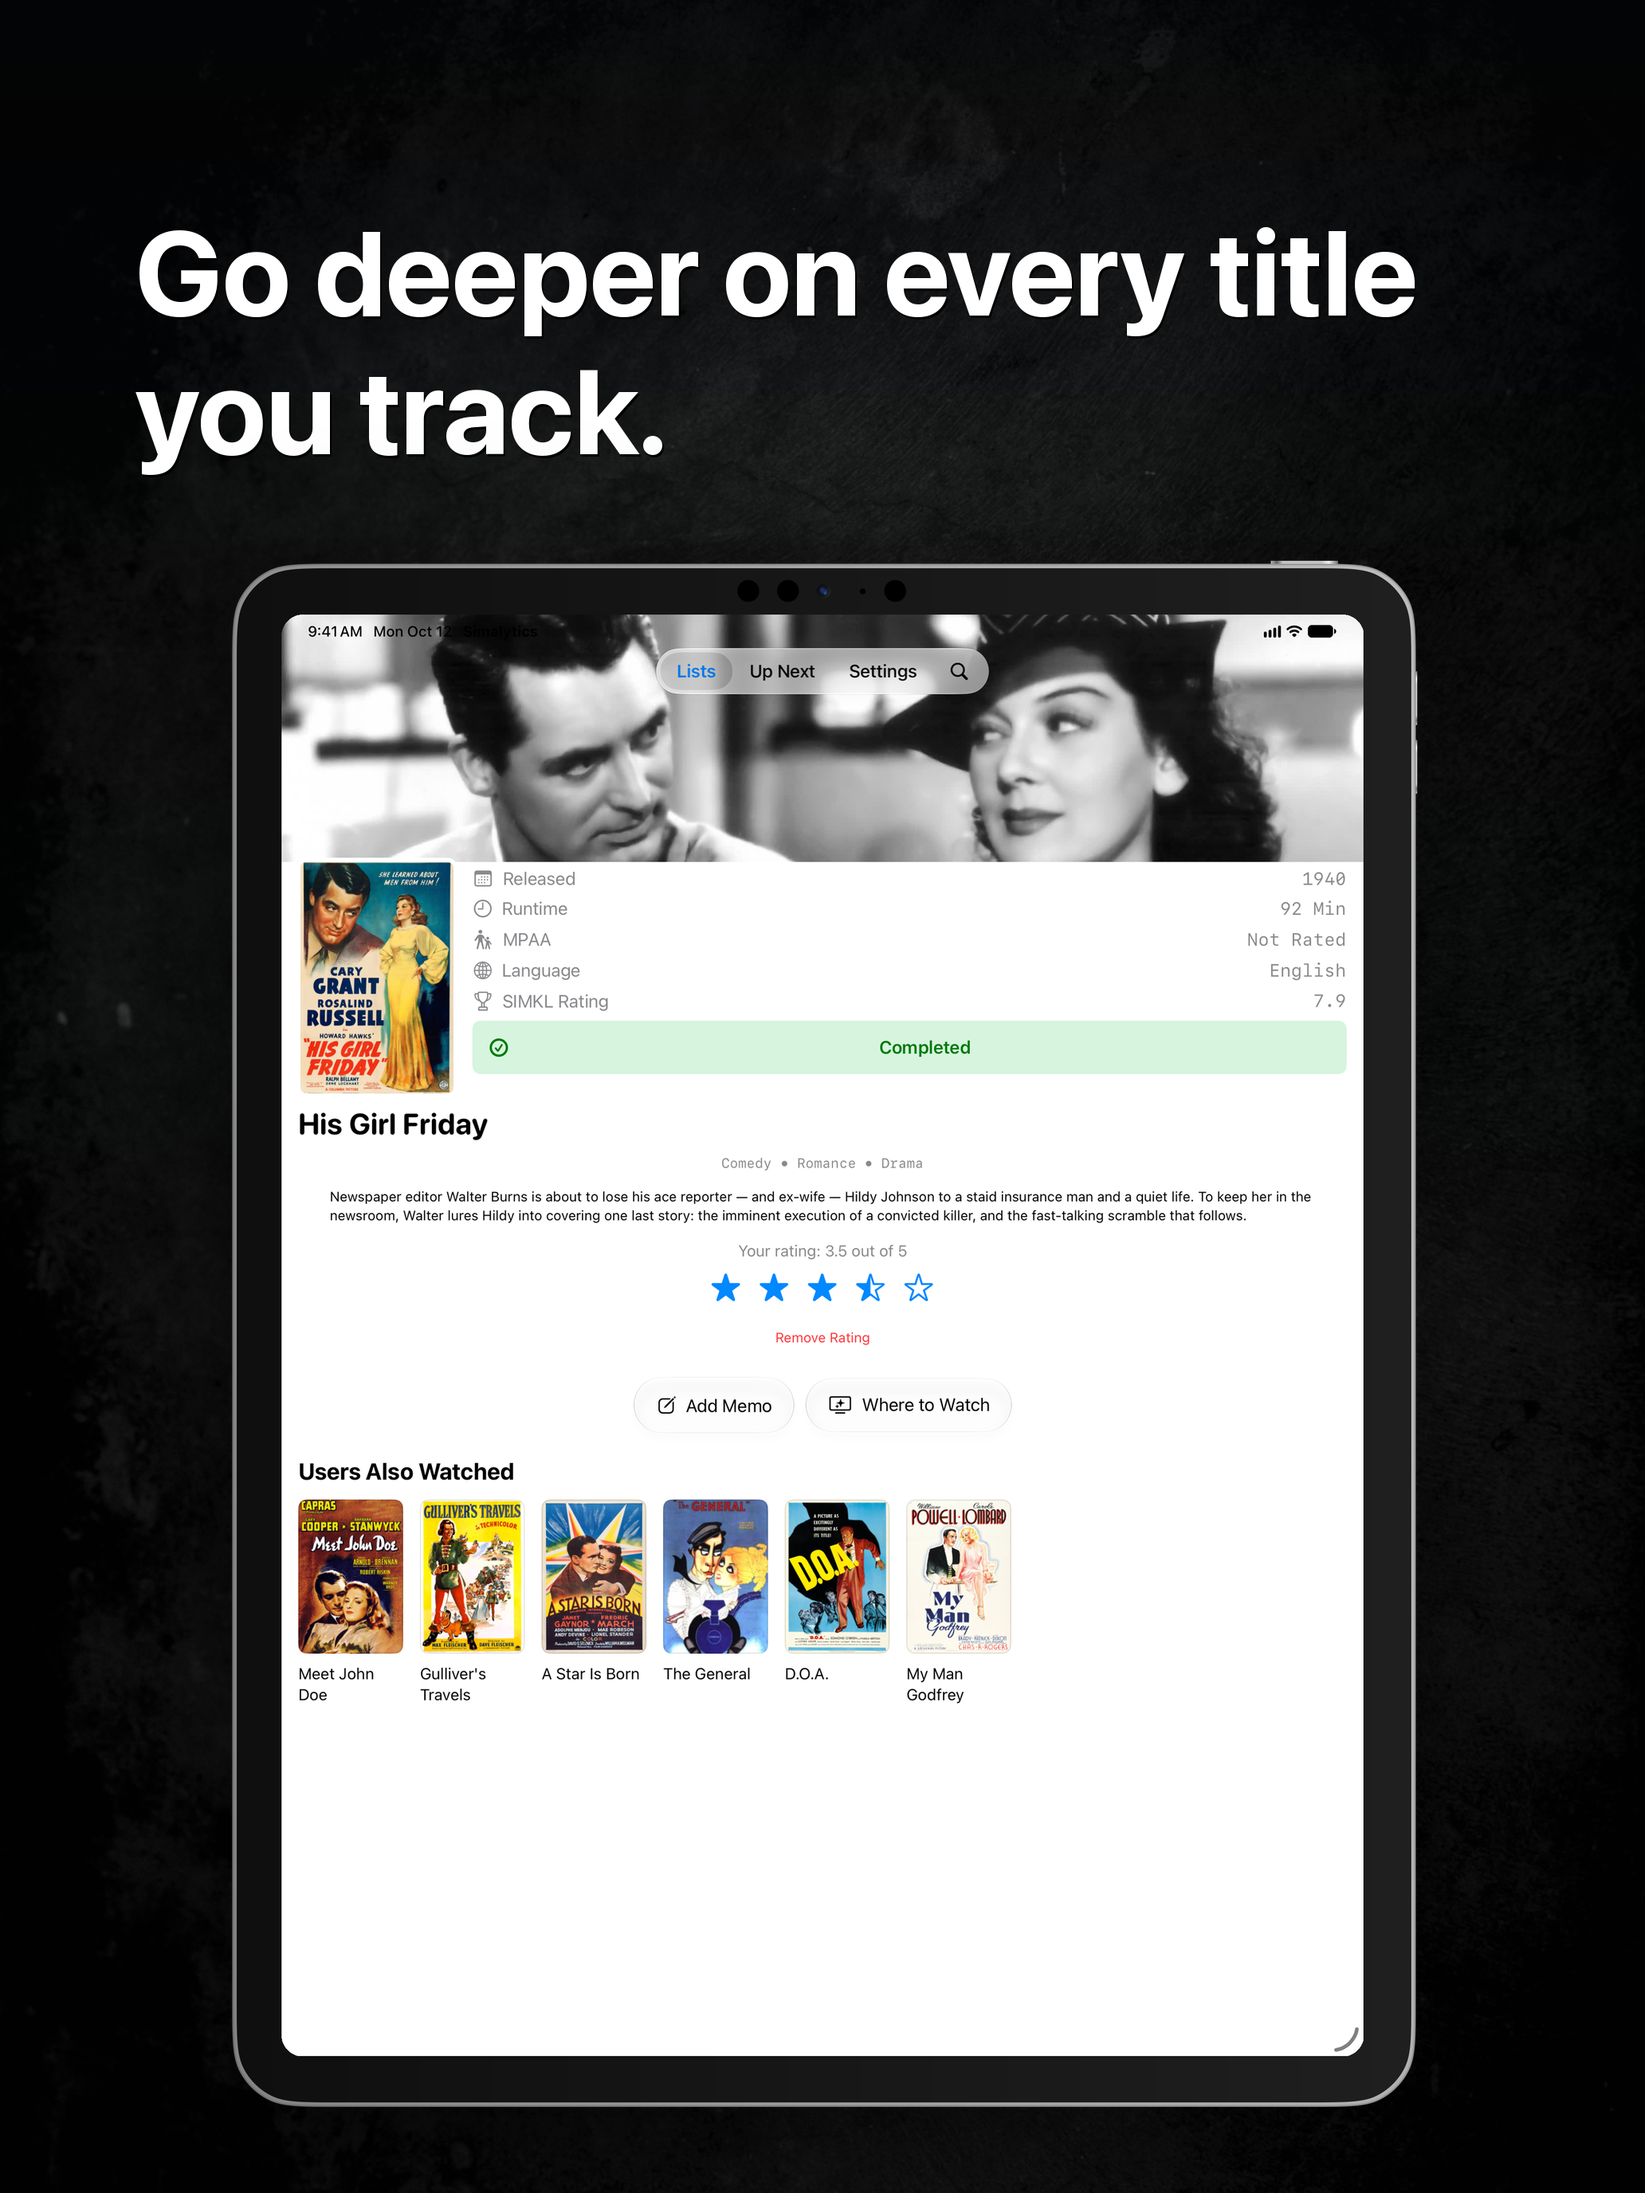
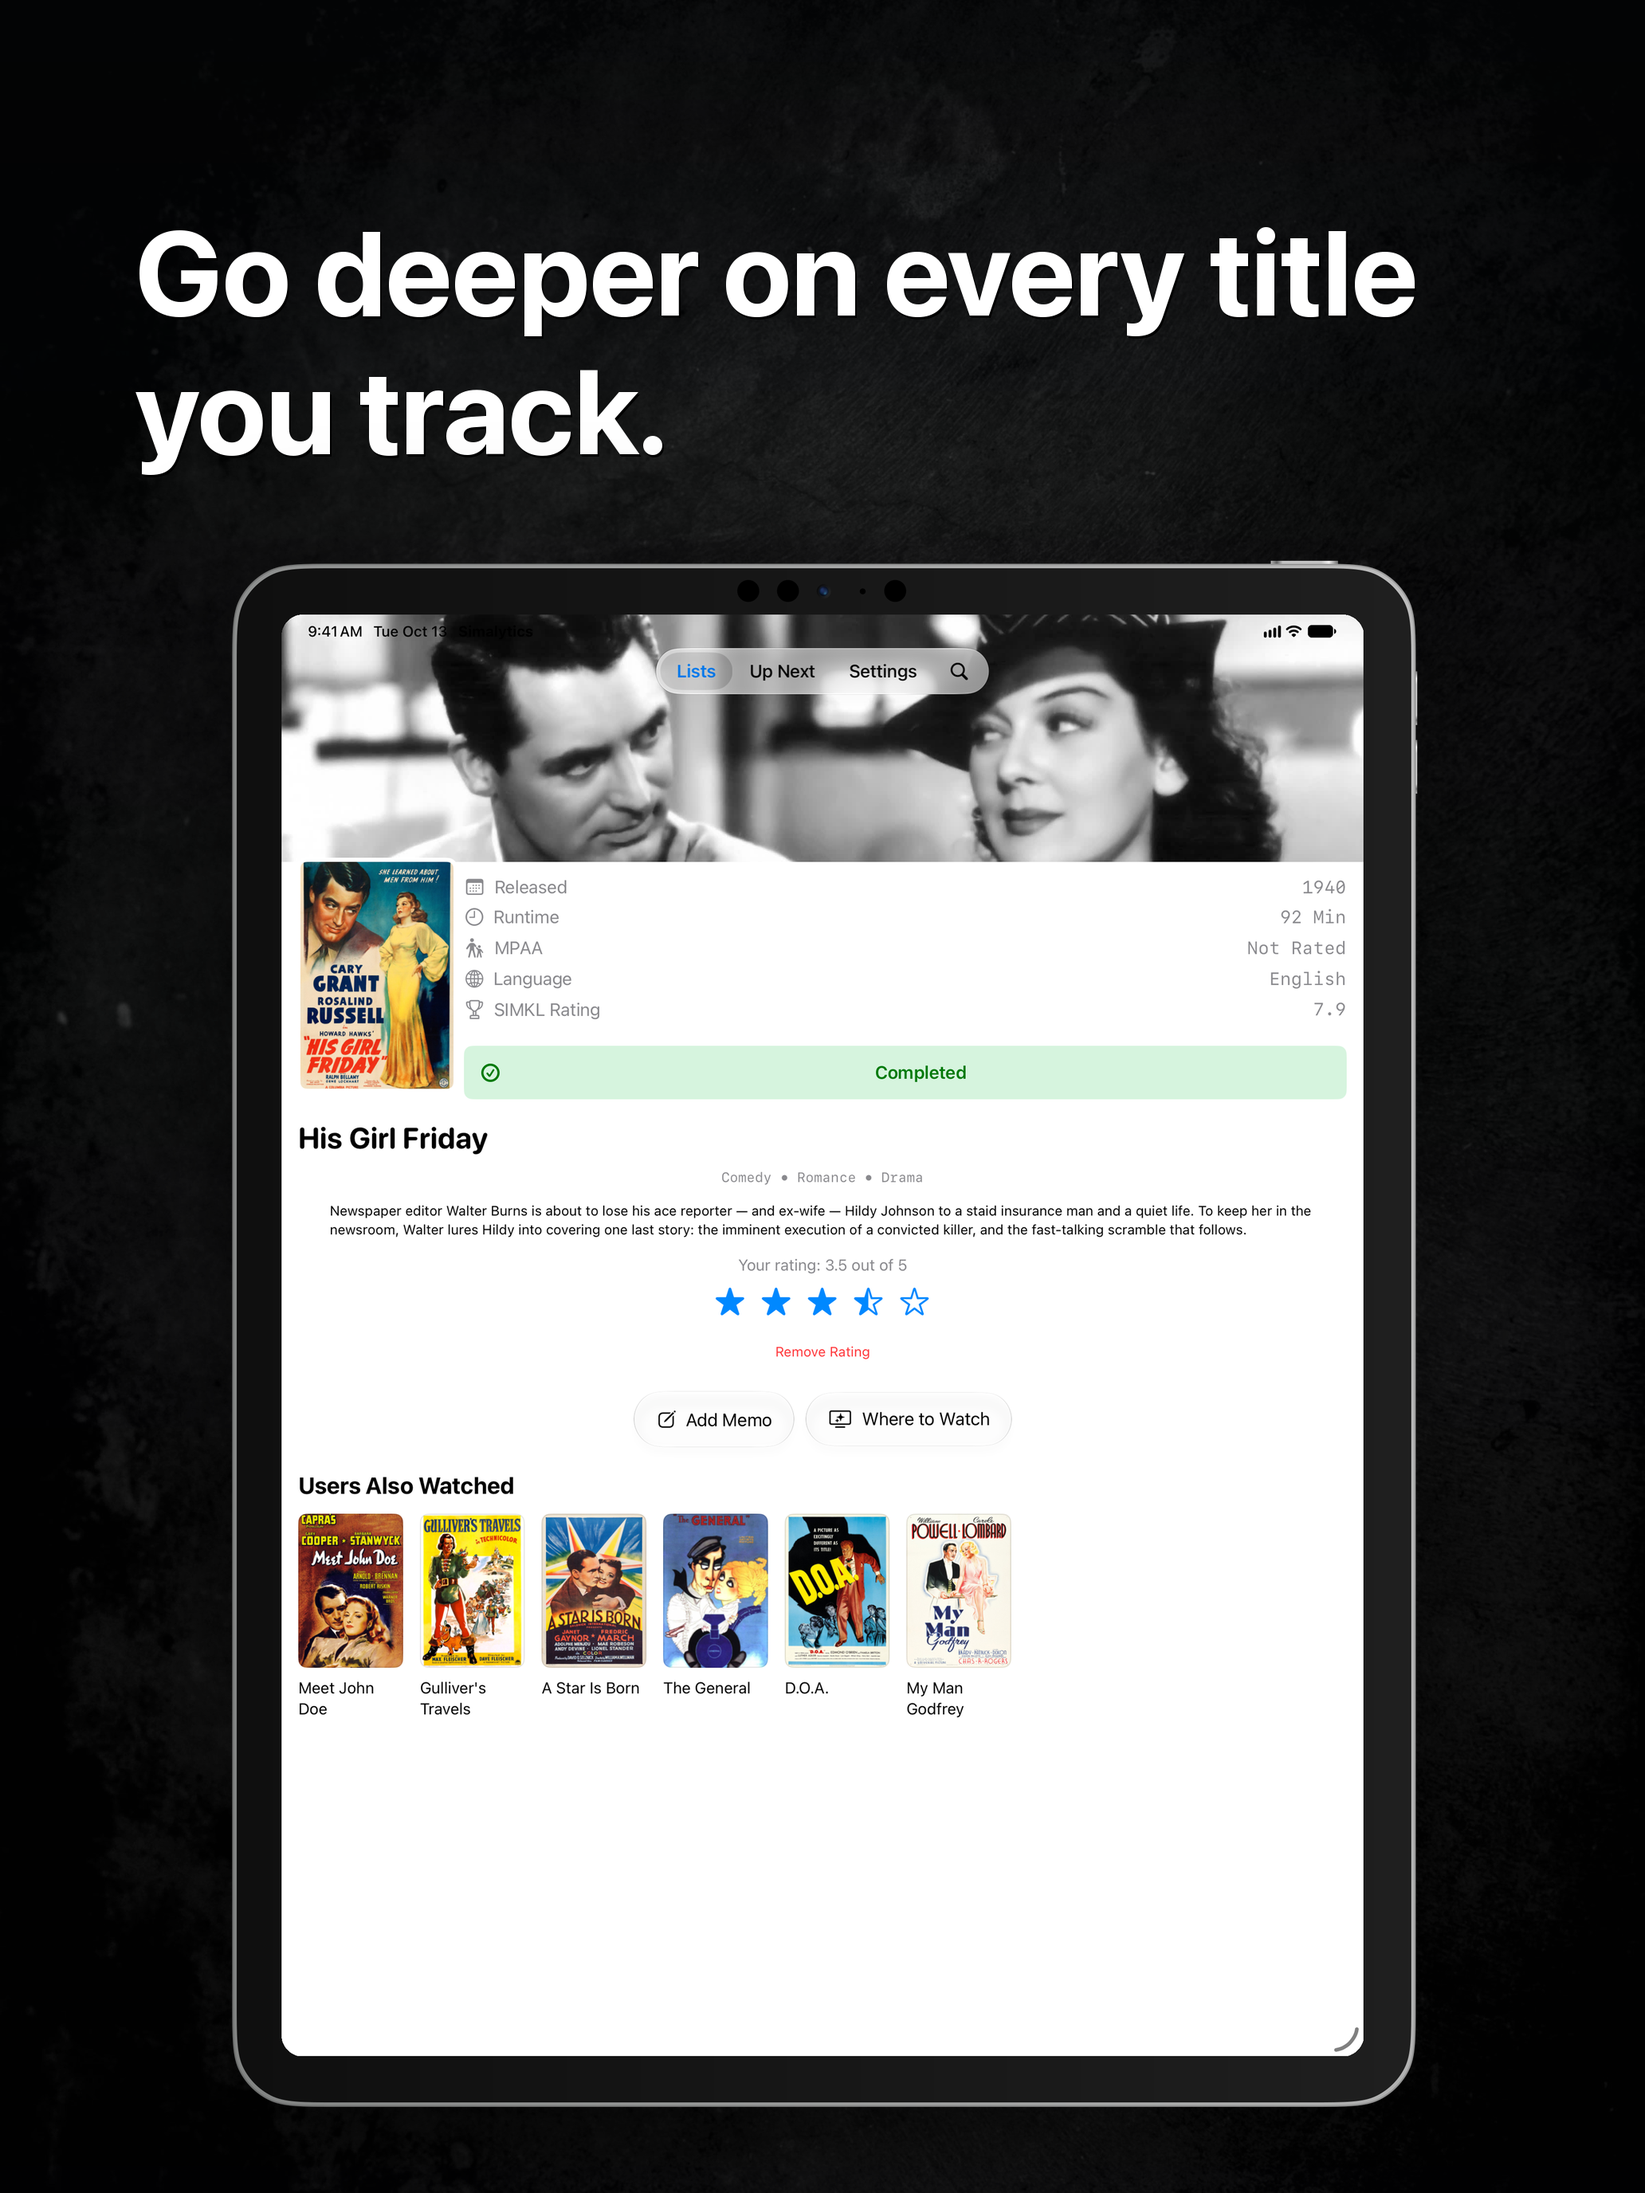
chore: release Simalytics 1.0.18 (141)

Changed region(s): [[0.186, 0.375, 0.8372, 0.7812]]

diff --git a/docs/apple-release-history.md b/docs/apple-release-history.md
@@ -1,6 +1,6 @@
 # Apple Release History
 
-Generated from App Store Connect and git on 2026-10-14T01:46:50.539Z.
+Generated from App Store Connect and git on 2026-10-14T02:21:23.728Z.
 
 ASC is the source of truth for Apple versions and builds. Release tags and Xcode Cloud source commits are authoritative for git correlation; Xcode project snapshots are used only as a historical fallback.
 
@@ -25,6 +25,7 @@ The Created column is the App Store version-record creation date. Apple does not
 | 1.0.12 | READY_FOR_SALE | 2026-07-03 | 122 | e033dbb (2026-07-03; tag) | • Restored the parallax banner and refined spacing on title detail pages • Re-centered the detail action controls and tidied poster and info layout • Made the Where to Watch section more reliable • Hardened Simkl requests and media views for smoother, more consistent loading |
 | 1.0.14 | READY_FOR_SALE | 2026-07-09 | 129 | b701890 (2026-07-13; tag) | • Updated app dependencies and kept OAuth callback URL details out of diagnostics. |
 | 1.0.15 | READY_FOR_SALE | 2026-07-14 | 134 | 5d1dc79 (2026-07-18; tag) | • Improved watch-history sync resilience, including titles that are not yet in your Simkl watchlist. • Prevented duplicate episode updates and made cancelled background refreshes stop promptly. • Reduced stalls while browsing image-heavy and preview-rich screens. |
+| 1.0.18 | PREPARE_FOR_SUBMISSION | 2026-10-13 | 140 | b2def3d (2026-10-13; tag) | • Choose your default launch tab in Settings: Up Next, Lists, Explore, or Settings. • Up Next now follows Simkl's watchlist data, keeping stale or unaired next episodes out of your queue. Mark watched with a full left swipe in supported layouts. • Browse TV seasons and anime episode ranges with watched progress and a shortcut to the next unwatched episode. Resume from your latest watched season instead of returning to earlier seasons you skipped. • Enjoy steadier episode lists with consistent spacing for long titles, descriptions, and loading images. Open full descriptions in a scrollable sheet, with improved support for larger text. • Use native search, compact tabs while scrolling, and Liquid Glass detail controls on recent iOS versions. Episode lists support native full-swipe watch actions on iOS 27. • Select half-star ratings, remove ratings, and get clearer feedback when ratings or watched updates fail. Anime episode and title removals sync more reliably. • Pan and zoom fullscreen posters, retry failed image loads, and receive confirmation when a poster finishes saving to Photos. • Get clearer search loading and error states, better poster grids on smaller iPhones, and a clearer Reset & Sign Out action. • Improved library loading, browsing performance, and recovery from connection or local storage errors. Refreshed the App Store screenshots to match the current interface. |
 
 ## TestFlight-Only Versions
 
@@ -150,6 +151,7 @@ These versions have processed builds but no App Store version record.
 | 1.0.16 | 136 | 2026-10-08 | VALID | false | 7dd9af3 (2026-10-08; tag) |
 | 1.0.16 | 137 | 2026-10-11 | VALID | false | 6a1d25b (2026-10-11; cloud) |
 | 1.0.17 | 139 | 2026-10-11 | VALID | false | fcc6e97 (2026-10-11; cloud) |
+| 1.0.18 | 140 | 2026-10-13 | VALID | false | b2def3d (2026-10-13; tag) |
 
 ## Release Commits
 
@@ -195,4 +197,21 @@ Matched 5d1dc79 from 2026-07-18: fix: finalize Simalytics 1.0.15 release [releas
 - docs: backfill 1.0.15 build correlation (#33)
 - fix: harden sync and interaction stability (#34)
 - fix: finalize Simalytics 1.0.15 release
+
+### 1.0.18 (140)
+
+Matched b2def3d from 2026-10-13: chore: release Simalytics 1.0.18 [release tag simalytics-ios@1.0.18+140]
+
+- feat: iOS 27 UI updates — poster zoom, grid swipe, Liquid Glass
+- chore: update dependencies (#44)
+- chore: release Simalytics 1.0.16
+- Merge pull request #42 from NickReisenauer/ios27-update
+- refactor: cleanup dead code and inert layout hacks
+- Merge pull request #45 from Kyter-com/NickReisenauer/cleanup-dead-code-and-inert-layout-hacks
+- fix: keep Up Next authoritative and streamline watched swipes
+- fix: accept live empty Watching responses from SIMKL
+- fix: keep Up Next navigable during resync
+- Merge pull request #46 from Kyter-com/NickReisenauer/up-next-feedback
+- chore: release Simalytics 1.0.17
+- chore: release Simalytics 1.0.18
 

diff --git a/docs/unreleased-review.md b/docs/unreleased-review.md
@@ -116,9 +116,9 @@ season-1 watch coordinates. The progress-based initial selection described above
 is preserved. This navigation shortcut does not change the authoritative Up Next
 queue or predict unannounced episodes.
 
-The lazy episode section pins its header at standard text sizes. At accessibility
-sizes, controls stack and the header scrolls away so episodes can use the viewport.
-Rows reserve two lines each for titles and description previews, plus consistent
+The lazy episode section lets its header scroll away at every text size, avoiding
+a second sticky bar under navigation. Compact rows reserve one line each for
+titles and description previews (two at accessibility sizes), plus consistent
 metadata and thumbnail space. Preview whitespace is normalized, while a shared,
 scrollable detail sheet retains the full description. Loaded, missing, and failed
 images occupy the same frame. Larger text uses a vertical row layout.
@@ -192,3 +192,35 @@ frames, and layouts. ASC's local validator accepted five iPhone screenshots as
 folders retain their existing `iphone-6.9` and `ipad-13` names; the ASC display types
 above identify the upload sets. Release preparation does not constitute an App
 Store review submission or a public release.
+
+
+## UI polish and replacement release: 1.0.18 (141)
+
+Follow-up to device feedback on build 140, prepared October 13, 2026:
+
+- Standard episode rows are approximately 75 points tall, down from 149, with
+  fixed thumbnail and preview space. Long descriptions remain available in the
+  detail sheet. Short/long rows and missing/loaded artwork have equal heights.
+- The episode header scrolls away at all text sizes. TV, anime, and movie detail
+  screens explicitly use an inline navigation bar. DEBUG navigation fixtures now
+  exercise the real back button instead of only presenting details at the root.
+- Ten-star ratings use one continuous, 44-point-high rating strip and stay on one
+  line. Five-star mode retains half-star selection. VoiceOver adjustment and rating
+  removal remain available; the animation task follows the view's lifetime.
+- Restored the compact poster-side year, runtime, progress, and watchlist-button
+  spacing. Accessibility sizes place each label above its value to avoid squeezed
+  words. The standard layout remains side by side.
+
+Validation: all 133 test definitions passed on iOS 27; all 21 focused rating and
+episode-browser definitions passed on iOS 18.5. Parameterized rating tests exercise
+every whole/half-star position, different widths, scale edges, and zero width.
+Final Debug and arm64/x86_64 Release simulator builds passed. Simulator inspection
+covered compact TV/anime rows, navigation scrolling, full descriptions, ten-star
+selection, five-star half selection, and the largest accessibility text size.
+
+The iPhone and iPad detail screenshots were recaptured from the offline PD
+fixtures and regenerated with the existing headlines, frames, and composition.
+The other eight screenshots are unchanged. The user-facing Changeset was folded
+into the existing 1.0.18 changelog and cumulative release notes because 1.0.18 is
+still unreleased; the marketing version remains 1.0.18 and ASC selected build 141
+for the replacement Xcode Cloud build. No App Store review submission is implied.

diff --git a/CHANGELOG.md b/CHANGELOG.md
@@ -4,6 +4,8 @@
 
 ### Patch Changes
 
+- Tighten episode rows and let their header scroll away under the native back button. Restore compact year/runtime/watchlist spacing and keep ten-star ratings on one line while preserving the optional five-star scale. Larger accessibility text gives detail labels and values their own lines.
+
 - Choose your default launch tab in Settings with a native selection screen and Liquid Glass styling. The tab bar now makes more room while scrolling on iOS 26 and later, and detail transitions respect Reduce Motion.
 
   Search now shows loading and connection errors accurately, including the first query. Poster grids fit three columns on smaller iPhones, and detail screens share consistent headers, placeholders, and episode rows.
@@ -19,9 +21,9 @@
   Open the library and calculate list counts away from the UI thread, load Explore shelves lazily, and keep the loading state accurate during overlapping operations.
 
   Explore adopts the native search tab on iOS 26 and later, with a floating search control and a search field beside the compact tabs. Detail actions use native Liquid Glass buttons with larger touch targets and an adaptive layout; older iOS versions keep standard controls.
-- Browse TV and anime episodes with a native season or episode-range picker, a sticky progress header, and a shortcut to the next unwatched episode. Mark episodes directly from the list or with a full swipe on iOS 27, with shared save protection and visible errors.
+- Browse TV and anime episodes with a native season or episode-range picker, watched progress, and a shortcut to the next unwatched episode. Mark episodes directly from the list or with a full swipe on iOS 27, with shared save protection and visible errors.
 
-  Episode rows reserve consistent space for titles, description previews, and thumbnails to prevent long descriptions or loading images from shifting the list. Full descriptions open in a scrollable sheet, and larger text uses an adaptive layout.
+  Compact episode rows reserve consistent space for titles, description previews, and thumbnails to prevent long descriptions or loading images from shifting the list. Full descriptions open in a scrollable sheet, and larger text uses an adaptive layout.
 - TV and anime details now open at your latest watched season or episode group and advance when it is complete, instead of returning to earlier seasons you skipped.
 
 ## 1.0.17

diff --git a/docs/next-release-notes.md b/docs/next-release-notes.md
@@ -1,9 +1,9 @@
 • Choose your default launch tab in Settings: Up Next, Lists, Explore, or Settings.
 • Up Next now follows Simkl's watchlist data, keeping stale or unaired next episodes out of your queue. Mark watched with a full left swipe in supported layouts.
 • Browse TV seasons and anime episode ranges with watched progress and a shortcut to the next unwatched episode. Resume from your latest watched season instead of returning to earlier seasons you skipped.
-• Enjoy steadier episode lists with consistent spacing for long titles, descriptions, and loading images. Open full descriptions in a scrollable sheet, with improved support for larger text.
+• Enjoy compact, steady episode rows, a cleaner scrolling header, and restored spacing for title details and watch status. Open full descriptions in a scrollable sheet, with improved support for larger text.
 • Use native search, compact tabs while scrolling, and Liquid Glass detail controls on recent iOS versions. Episode lists support native full-swipe watch actions on iOS 27.
-• Select half-star ratings, remove ratings, and get clearer feedback when ratings or watched updates fail. Anime episode and title removals sync more reliably.
+• Keep ten-star ratings on one line, select half-star ratings in five-star mode, remove ratings, and get clearer feedback when ratings or watched updates fail. Anime episode and title removals sync more reliably.
 • Pan and zoom fullscreen posters, retry failed image loads, and receive confirmation when a poster finishes saving to Photos.
 • Get clearer search loading and error states, better poster grids on smaller iPhones, and a clearer Reset & Sign Out action.
 • Improved library loading, browsing performance, and recovery from connection or local storage errors. Refreshed the App Store screenshots to match the current interface.
